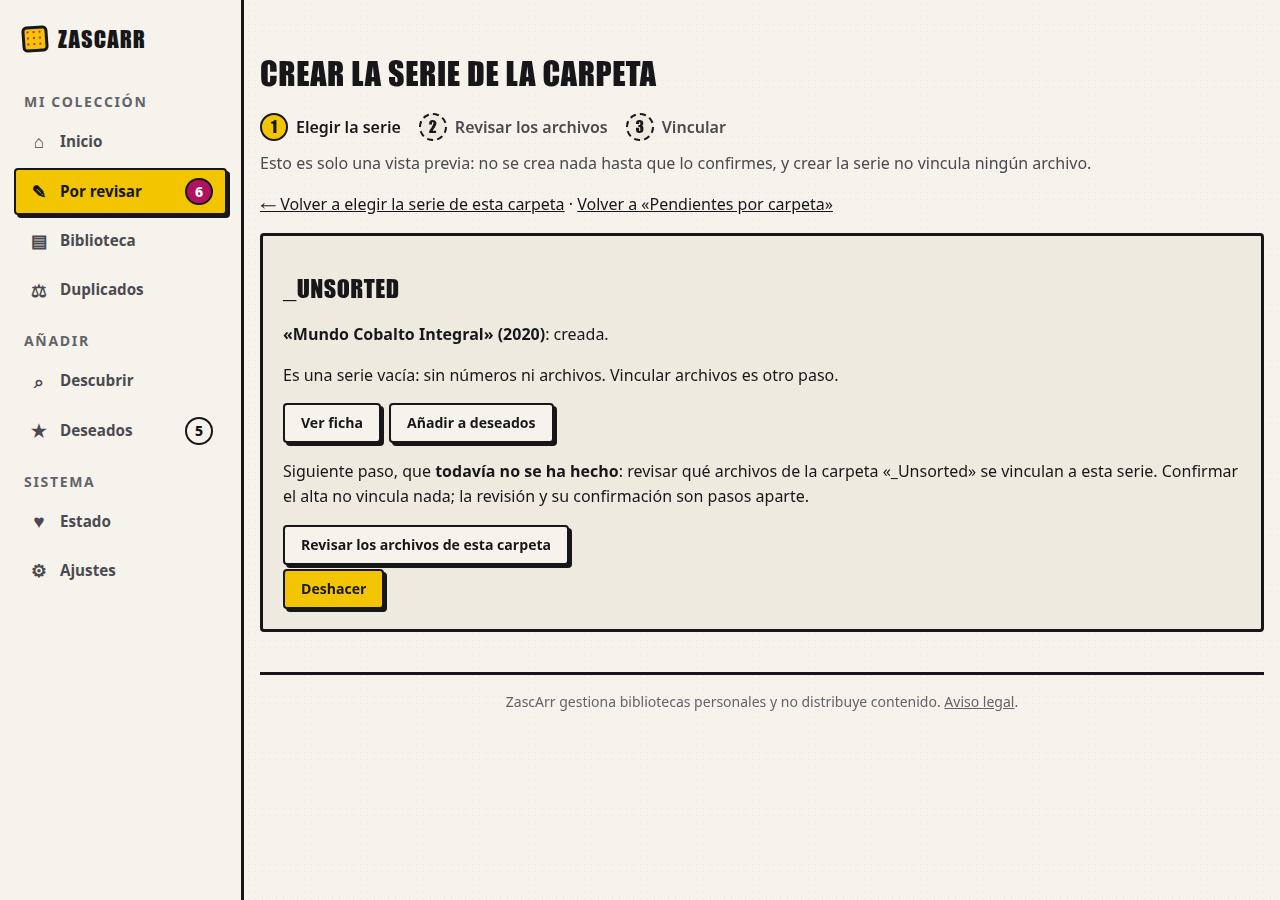
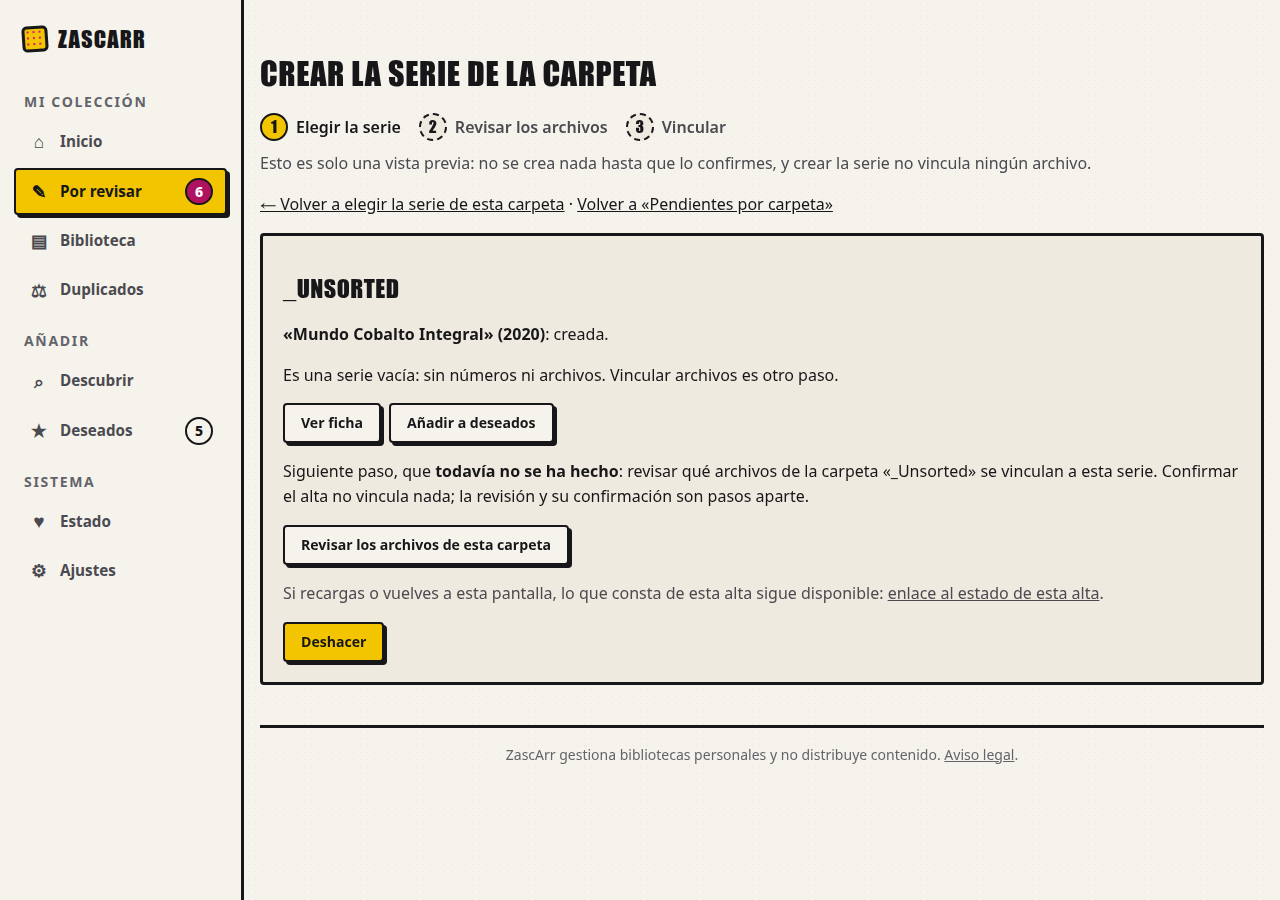
docs: evidencia de navegador de U19 siguiendo los enlaces reales (revisión de #219)

Changed region(s): [[0.1875, 0.6222, 1.0, 0.8089], [0.75, 0.84, 0.7812, 0.8711]]

diff --git a/docs/design/ui-u19/capturar_u19.py b/docs/design/ui-u19/capturar_u19.py
@@ -143,8 +143,33 @@ async def main(base: str, fragmentos: Path, salida: Path) -> None:
             await tecla(nav, "Enter")                                   # envía la búsqueda (simulada)
             await pausa(1.2)
             r = await nav.js("document.querySelector('#asistente-resultados').innerText")
-            anotar("2a-resultados-simulados", texto=texto(r)[:400], parecidas_bajo_la_candidata="Series que ya tienes y se parecen" in r)
+            anotar("2a-resultados-simulados", texto=texto(r)[:400], parecidas_bajo_la_candidata="series que ya tienes y se parecen" in r.lower())
             await nav.foto(salida / "3-resultados-con-parecidas.png", completa=False)
+            # la PRIMERA candidata coincide con una serie que ya tienes: elegir su tradición por teclado lleva a decidir («Es esta»)
+            await nav.js("[...document.querySelectorAll('#asistente-resultados select')][0].focus()")
+            await escribir(nav, "Grapa")
+            await tecla(nav, "Tab")
+            await tecla(nav, "Enter")
+            await pausa(1.5)
+            bloque = "(([...document.querySelectorAll('.asistente-paso')].find(e => e.innerText.includes('Elección anotada'))) || null)"
+            ambig = await nav.js(f"({bloque} || {{innerText: ''}}).innerText")
+            anotar("2a2-decidir-entre-parecidas", texto=texto(ambig)[:300], ofrece_es_esta="Es esta" in ambig, ofrece_crear_otra="Es distinta: crear otra" in ambig)
+            await nav.js(f"{bloque}.querySelector('input[name=decision][value=reutilizar]').form.querySelector('button').focus()")
+            await tecla(nav, "Enter")                                   # «Es esta»
+            await pausa(1.5)
+            tras = await nav.js(f"({bloque} || {{innerText: ''}}).innerText")
+            anotar("2a3-es-esta", texto=texto(tras)[-420:], decision_tomada="Se usará la serie existente que elegiste" in tras)
+            await nav.foto(salida / "3b-es-esta.png", completa=False)
+            enlace_decision = await nav.js(f"[...{bloque}.querySelectorAll('a')].find(a => a.textContent.includes('enlace a esta vista previa')).href")
+            anotar("2a4-el-enlace-lleva-la-decision", decision="decision=reutilizar" in enlace_decision, serie_id="serie_id=" in enlace_decision, consulta="consulta=" in enlace_decision)
+            await nav.ir(enlace_decision, espera=1.0)                   # recargar por el enlace que ofrece la pantalla
+            vd = await visible(nav)
+            anotar("2a5-reconstruida-con-la-decision", conserva="Se usará la serie existente que elegiste" in vd, vuelve_a_preguntar="Es esta" in vd)
+            await nav.foto(salida / "3c-decision-conservada.png", completa=False)
+            await nav.ir(base + A, espera=0.8)
+            await nav.js("document.querySelector('#asistente-consulta').focus()")
+            await tecla(nav, "Enter")
+            await pausa(1.2)
             # la segunda candidata (Tebeosfera): su selector de tradición, por teclado
             await nav.js("[...document.querySelectorAll('#asistente-resultados select')][1].focus()")
             await escribir(nav, "Tebeo")
@@ -177,14 +202,12 @@ async def main(base: str, fragmentos: Path, salida: Path) -> None:
         r2 = await nav.js("document.querySelector('.alta-paso').innerText")
         anotar("2e-alta-creada", tabs=k, texto=texto(r2)[:400])
         await nav.foto(salida / "6-alta-creada.png", completa=False)
-        href_rev = await nav.js("[...document.querySelectorAll('a')].find(a => a.textContent.includes('Revisar los archivos de esta carpeta')).href")
-        sid = re.search(r"series_id=([0-9a-f-]{36})", href_rev).group(1)
-        operacion = await nav.js("document.querySelector('input[name=operacion_id]').value")
-
-        # volver al resultado del alta por su URL: lo que consta, sin repetirlo ni ofrecer «Deshacer»
-        await nav.ir(f"{base}/ui/pendientes/carpetas/asistente/alta/resultado?clave=_Unsorted&series_id={sid}&operacion={operacion}", espera=0.8)
+        # volver al estado del alta por el ENLACE que ofrece el resultado (no se compone ninguna URL)
+        vinculo = await nav.js("(() => { const a = [...document.querySelectorAll('a')].find(a => a.textContent.includes('enlace al estado de esta alta')); return a ? a.href : null; })()")
+        assert vinculo, "el resultado del alta no ofrece el enlace al estado de la alta"
+        await nav.ir(vinculo, espera=0.8)
         v = await visible(nav)
-        anotar("2f-alta-reconstruida", texto=v[:300], deshacer="Deshacer" in v, pasos=(await pasos(nav))["pasos"])
+        anotar("2f-alta-reconstruida", enlace_ofrecido=vinculo.replace(base, "")[:80], texto=v[:300], deshacer="Deshacer" in v, vacia="vacía" in v, pasos=(await pasos(nav))["pasos"])
         await nav.foto(salida / "7-alta-reconstruida.png", completa=False)
 
         # ── 3. Revisión, vinculación y lectura del resultado ───────────────────────────────────

diff --git a/docs/design/ui-u19/README.md b/docs/design/ui-u19/README.md
@@ -1,7 +1,6 @@
 # Evidencia de U19 (#206): de la carpeta a sus archivos vinculados, en navegador real
 
-Rama `claude/u19-recorrido`, 2026-10-16. Código evaluado: `a48fad0` (los commits posteriores solo tocan esta carpeta de
-documentación). Ficha y contratos: `docs/design/benchmark-U19-recorrido-vincular.md` (§6.4 y §7.2).
+Rama `claude/u19-recorrido`, 2026-10-16. Código evaluado: el de la rama tras la corrección de la revisión de #219 (ver el SHA en la PR). Ficha y contratos: `docs/design/benchmark-U19-recorrido-vincular.md` (§6.4 y §7.2).
 
 | Dato | Valor |
 |---|---|
@@ -29,12 +28,13 @@ documentación). Ficha y contratos: `docs/design/benchmark-U19-recorrido-vincula
 |---|---|---|
 | 1. Serie local sin identificadores, solo con teclado | Tab ×12 hasta el buscador local, «Mundo» + Enter → 1 serie (año y tradición); Tab ×2 → el enlace; Enter → la revisión de esa serie. Sin `checked`/`selected` en ningún sitio; no se creó ninguna serie | PASS |
 | 2. Continuidad desde una candidata | Con la 2.ª candidata simulada: tradición elegida **por teclado** («Tebeo» → `tebeo`), Tab, Enter → «Elección anotada…» **y la vista previa del alta** (antes, un callejón: «todavía no está disponible»); el botón «Crear serie vacía» aparece; la serie **no existe** hasta pulsarlo (0 apariciones en Biblioteca) | PASS |
+| 2. Decidir entre parecidas y recargar | Con la 1.ª candidata (coincide con una serie tuya): tradición por teclado → «Es esta» y «Es distinta: crear otra» → «Es esta» (Tab + Enter) → «Se usará la serie existente que elegiste». El «enlace a esta vista previa» **de esa pantalla** lleva `decision=reutilizar`, `serie_id` y `consulta`; abrirlo **conserva la decisión** y no vuelve a preguntar | PASS |
 | 2. Recargar la vista previa | El enlace «enlace a esta vista previa» (GET) reconstruye la misma vista previa con «Crear serie vacía» | PASS |
 | 2. Crear y seguir | «Crear serie vacía» por teclado → «creada»; «Revisar los archivos de esta carpeta» lleva a la revisión con el **id local** de la serie nueva | PASS |
 | 3. Progreso | `aria-current="step"` en exactamente un paso en cada pantalla (A, vista previa, alta reconstruida: 1; revisión: 2; resultado y su lectura: 3); «hecho» solo en los anteriores y «pendiente» en los siguientes, en **texto** además del color | PASS (DOM) |
 | 3. El resultado cambia el indicador | Al pulsar «Vincular 4 archivos» la cabecera pasa a «Resultado de la vinculación» y los pasos a «hecho, hecho, actual» (respuesta fuera de banda; antes de esta corrección se quedaba en «Revisar… paso actual») | PASS |
 | 4. Un consentimiento por efecto | En el navegador se observó que los dos efectos son **dos botones en dos pantallas distintas** («Crear serie vacía» y «Vincular 4 archivos»), y que la serie no existía tras «elegir» (0 apariciones en Biblioteca). Que navegar y volver **no escribe** se prueba en la base de datos (T7), no en Chrome | PASS (botones); BD en T7 |
-| 6. Volver después del alta | La URL de «alta reconstruida» dice «La serie «Mundo Cobalto Integral» (2020) ya está creada… Quedan 6 archivos», sin «Deshacer» | PASS |
+| 6. Volver después del alta | Se llega por el **enlace que ofrece el propio resultado del alta** («enlace al estado de esta alta»), sin componer ninguna URL: «La serie «Mundo Cobalto Integral» (2020) ya está creada. Quedan 6 archivos…», sin «Deshacer» y **sin decir «vacía»** (con archivos ya vinculados sería falso: lo cubre `test_t9_tras_vincular_el_estado_del_alta_no_dice_que_la_serie_esta_vacia`) | PASS |
 | 7. Volver después de vincular | El resultado ofrece «enlace a este resultado»; abrirlo (y **recargarlo**) muestra el mismo informe con «resultado guardado», sin volver a ejecutar | PASS |
 | 7. Referencia no válida | Texto único «Esta referencia no es válida. No se ha cambiado nada.», sin ninguna pista y **sin indicador de pasos** | PASS |
 | Móvil 375 px, oscuro | Sin scroll horizontal; el indicador baja de línea | PASS |
@@ -51,11 +51,20 @@ documentación). Ficha y contratos: `docs/design/benchmark-U19-recorrido-vincula
 - **Fuentes reales:** NOT RUN (ver arriba). La pantalla de resultados de búsqueda se probó con candidatas simuladas.
 - Firefox y Safari; un móvil real (solo emulación de viewport); la Pi: **NOT RUN**.
 - La cabecera «Elegir la serie de una carpeta» y sus textos de apoyo no se han revisado con una persona real.
+- El camino **a mano** (formulario → vista previa → enlace → recarga, con y sin decisión) se prueba en `tests/test_u19_continuidad_pg.py::TestVolverConservaLaEleccion`, **no** en Chrome.
 
 ## Pruebas
 
-`tests/test_u19_recorrido_pg.py` (34: T8 volver antes del alta, T9 volver después, T10 lectura del comprobante) se escribió **en
+`tests/test_u19_recorrido_pg.py` (T8 volver antes del alta, T9 volver después, T10 lectura del comprobante; 34 en su primera versión, en rojo) se escribió **en
 rojo antes de implementar** (34 fallos, por las rutas inexistentes). `tests/test_u19_continuidad_pg.py` (selección local, candidata
 con carpeta, indicador de pasos, navegar sin escribir, límites) se escribió **después** de implementar esa parte; contra `main`
 fallan 14 de 16 (las dos que pasan, T12 y T13, son guardas de invariantes que ya se cumplían). Se comprobó con tres mutaciones
 (sin vencimiento, plazo desde la emisión, la lectura escribe) que las pruebas del contrato las detectan.
+
+## Tiempo controlado (T10)
+
+Tras la revisión de #219, el reloj de las pruebas del vencimiento es **uno solo** y se sustituye en los tres componentes que miran la
+hora (la ruta de lectura y de emisión, la validez de los tokens y la confirmación del servicio), no solo en la lectura. T10k repite la
+confirmación 1 h y 23 h después de la firma (con el token ya caducado) y exige el mismo `exp`; T10l repone dos filas con las fechas de
+«casi 24 h» y «algo más de 24 h» y comprueba que la **purga real** (con la hora de la base) solo borra la segunda y que la lectura
+dice lo mismo. Mutaciones comprobadas: plazo desde `reloj()` y desde `time.time()` en la emisión → T10k falla en ambas.
